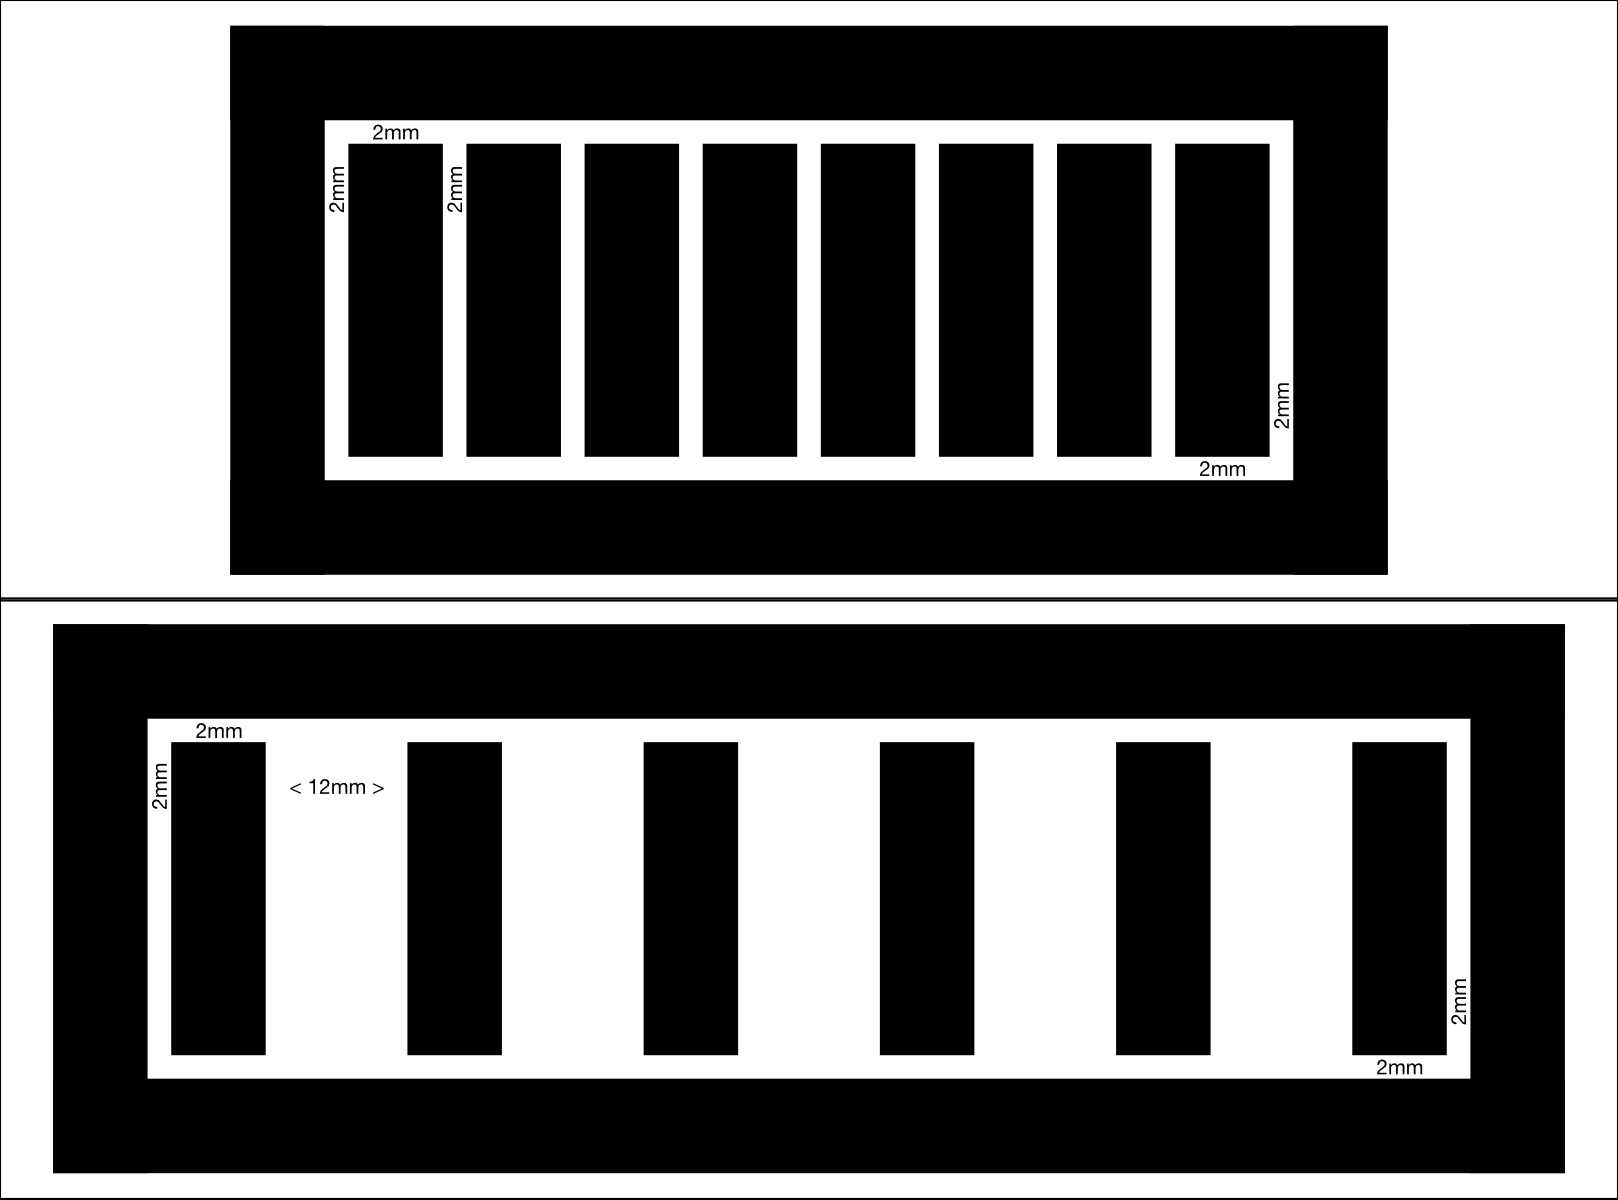
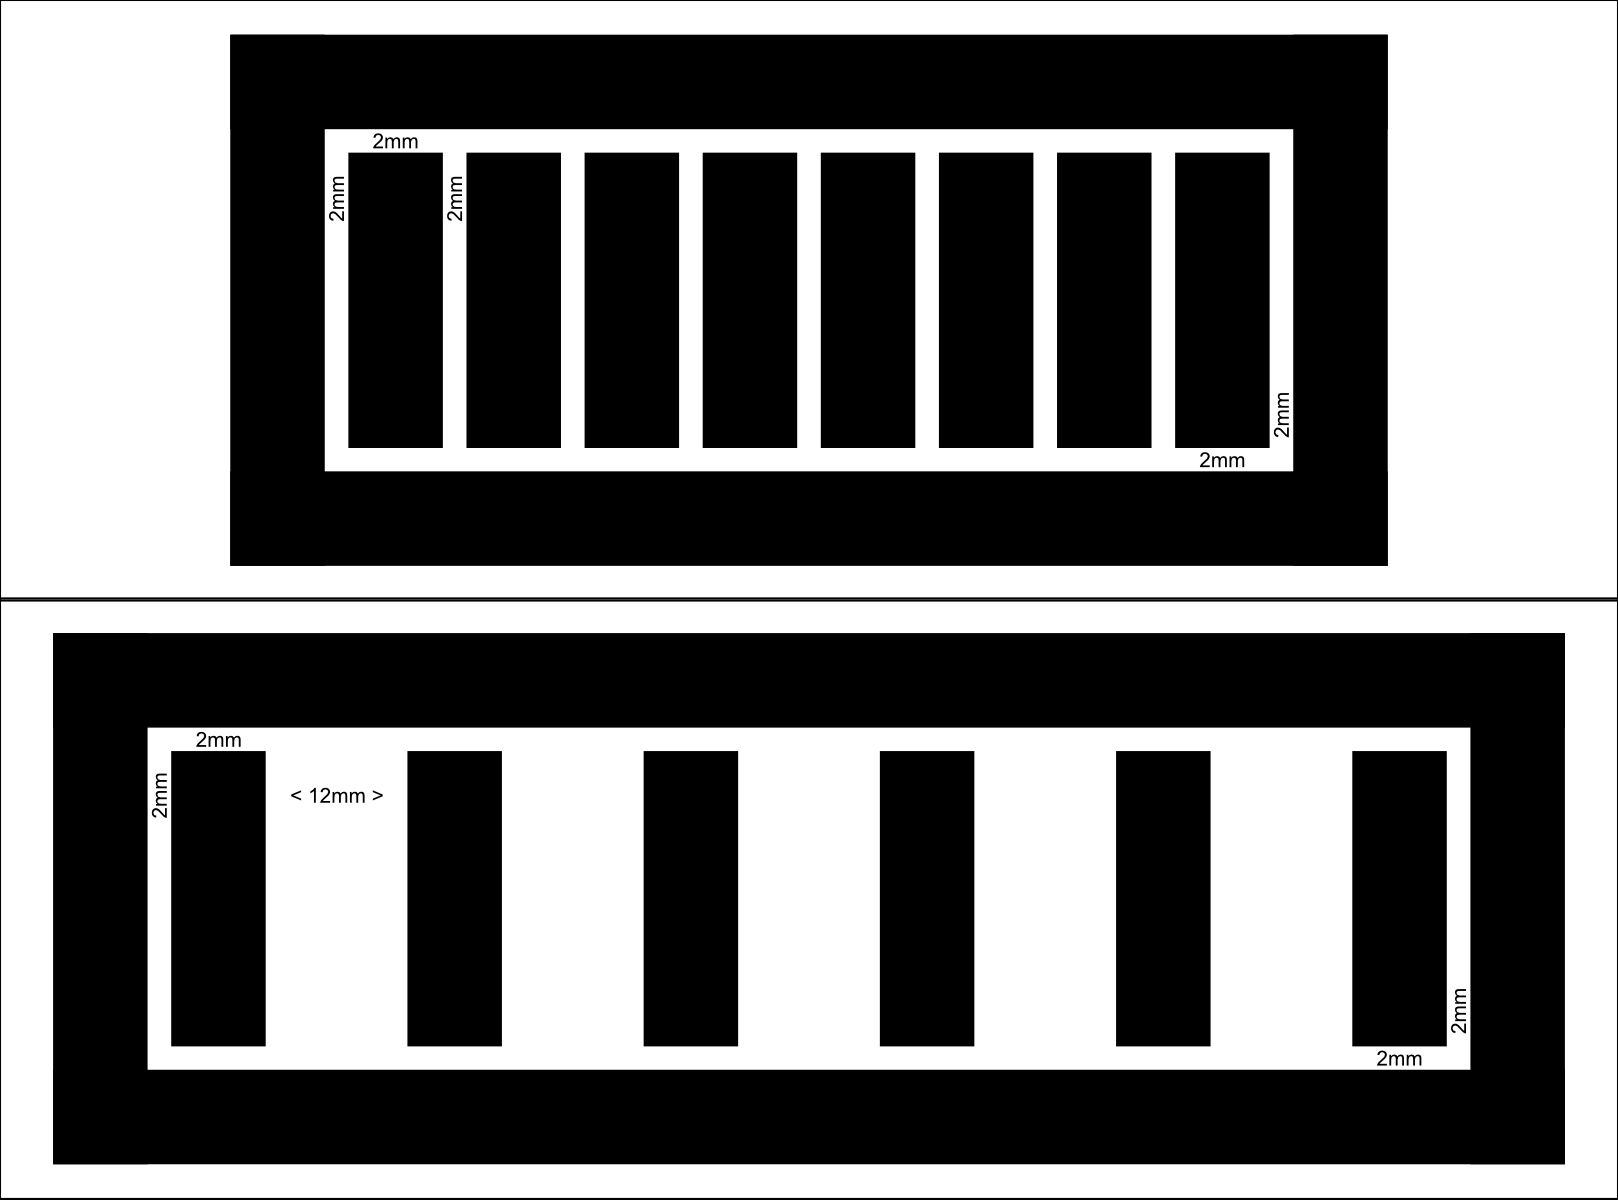
Swtich to Arduino Pro Micro and from SquidHID to HID-Project

diff --git a/README.md b/README.md
@@ -1,5 +1,9 @@
 # A touch controller based on a Japanese Arcade
 
+## This code can't work on Arduino Pro Micro (Leonardo) so far!
+
+Currently used malloc() function, but it's not working with Arduino.
+
 ## BOM
 
 1. CY8CMBR3116 w/ DIP convertion board x 1
@@ -12,7 +16,8 @@
    2. 560Ω x 1 / set
 3. IR LED
 4. IRM-3638 IR reciever
-5. ESP32-S3-N16R8 WROOM DevKit C x 1
+5. Arduino Pro Micro (or Micro / Leonardo) x 1
+   (Refer as "Arduino" below)
 
 ## Third Party Libraries
 
@@ -34,15 +39,15 @@ Big thank to the author(s) of these libraries
 
 ### Step
 
-1. Wire your CY8CMBR3116 well on breadboard. I²C SDA → Pin D4, I²C SCL → Pin D5. Make sure you've pulled these pins up with 4.7kΩ resistor.
-2. Connect your ESP32 to PC via USB cable.
+1. Wire your CY8CMBR3116 well on breadboard. I²C SDA → Pin D2, I²C SCL → Pin D3. Make sure you've pulled these pins up with 4.7kΩ resistor.
+2. Connect your Arduino to PC via USB cable.
 3. Upload [ConfigCode.ino](./CY8C_code/ConfigCode/ConfigCode.ino)
 4. Upload [CY8C_code.ino](./CY8C_code/CY8C_code/CY8C_code.ino)
 5. Open serial monitor and tap the touch pad.
 
 ### Enabling Keyboard Input
 
-Connect Pin 6 on your ESP32 to enable keyboard input.
+Connect Pin 6 on your Arduino to enable keyboard input.
 
 ## Touchpad Making Step
 
@@ -57,7 +62,7 @@ Make a pattern like below with conductive paint or copper tape:
 The inner line is the touch point, and the outter ring is ground. Solder wires to these to pins:
 
 - Touch pad → CS0 on CY8CMBR3116
-- Ground → GND on ESP32
+- Ground → GND on Arduino
 
 Beware that the space between touch pad and ground ring is the maximum distance between your finger and the touch pad that can be detected as touched.
 
